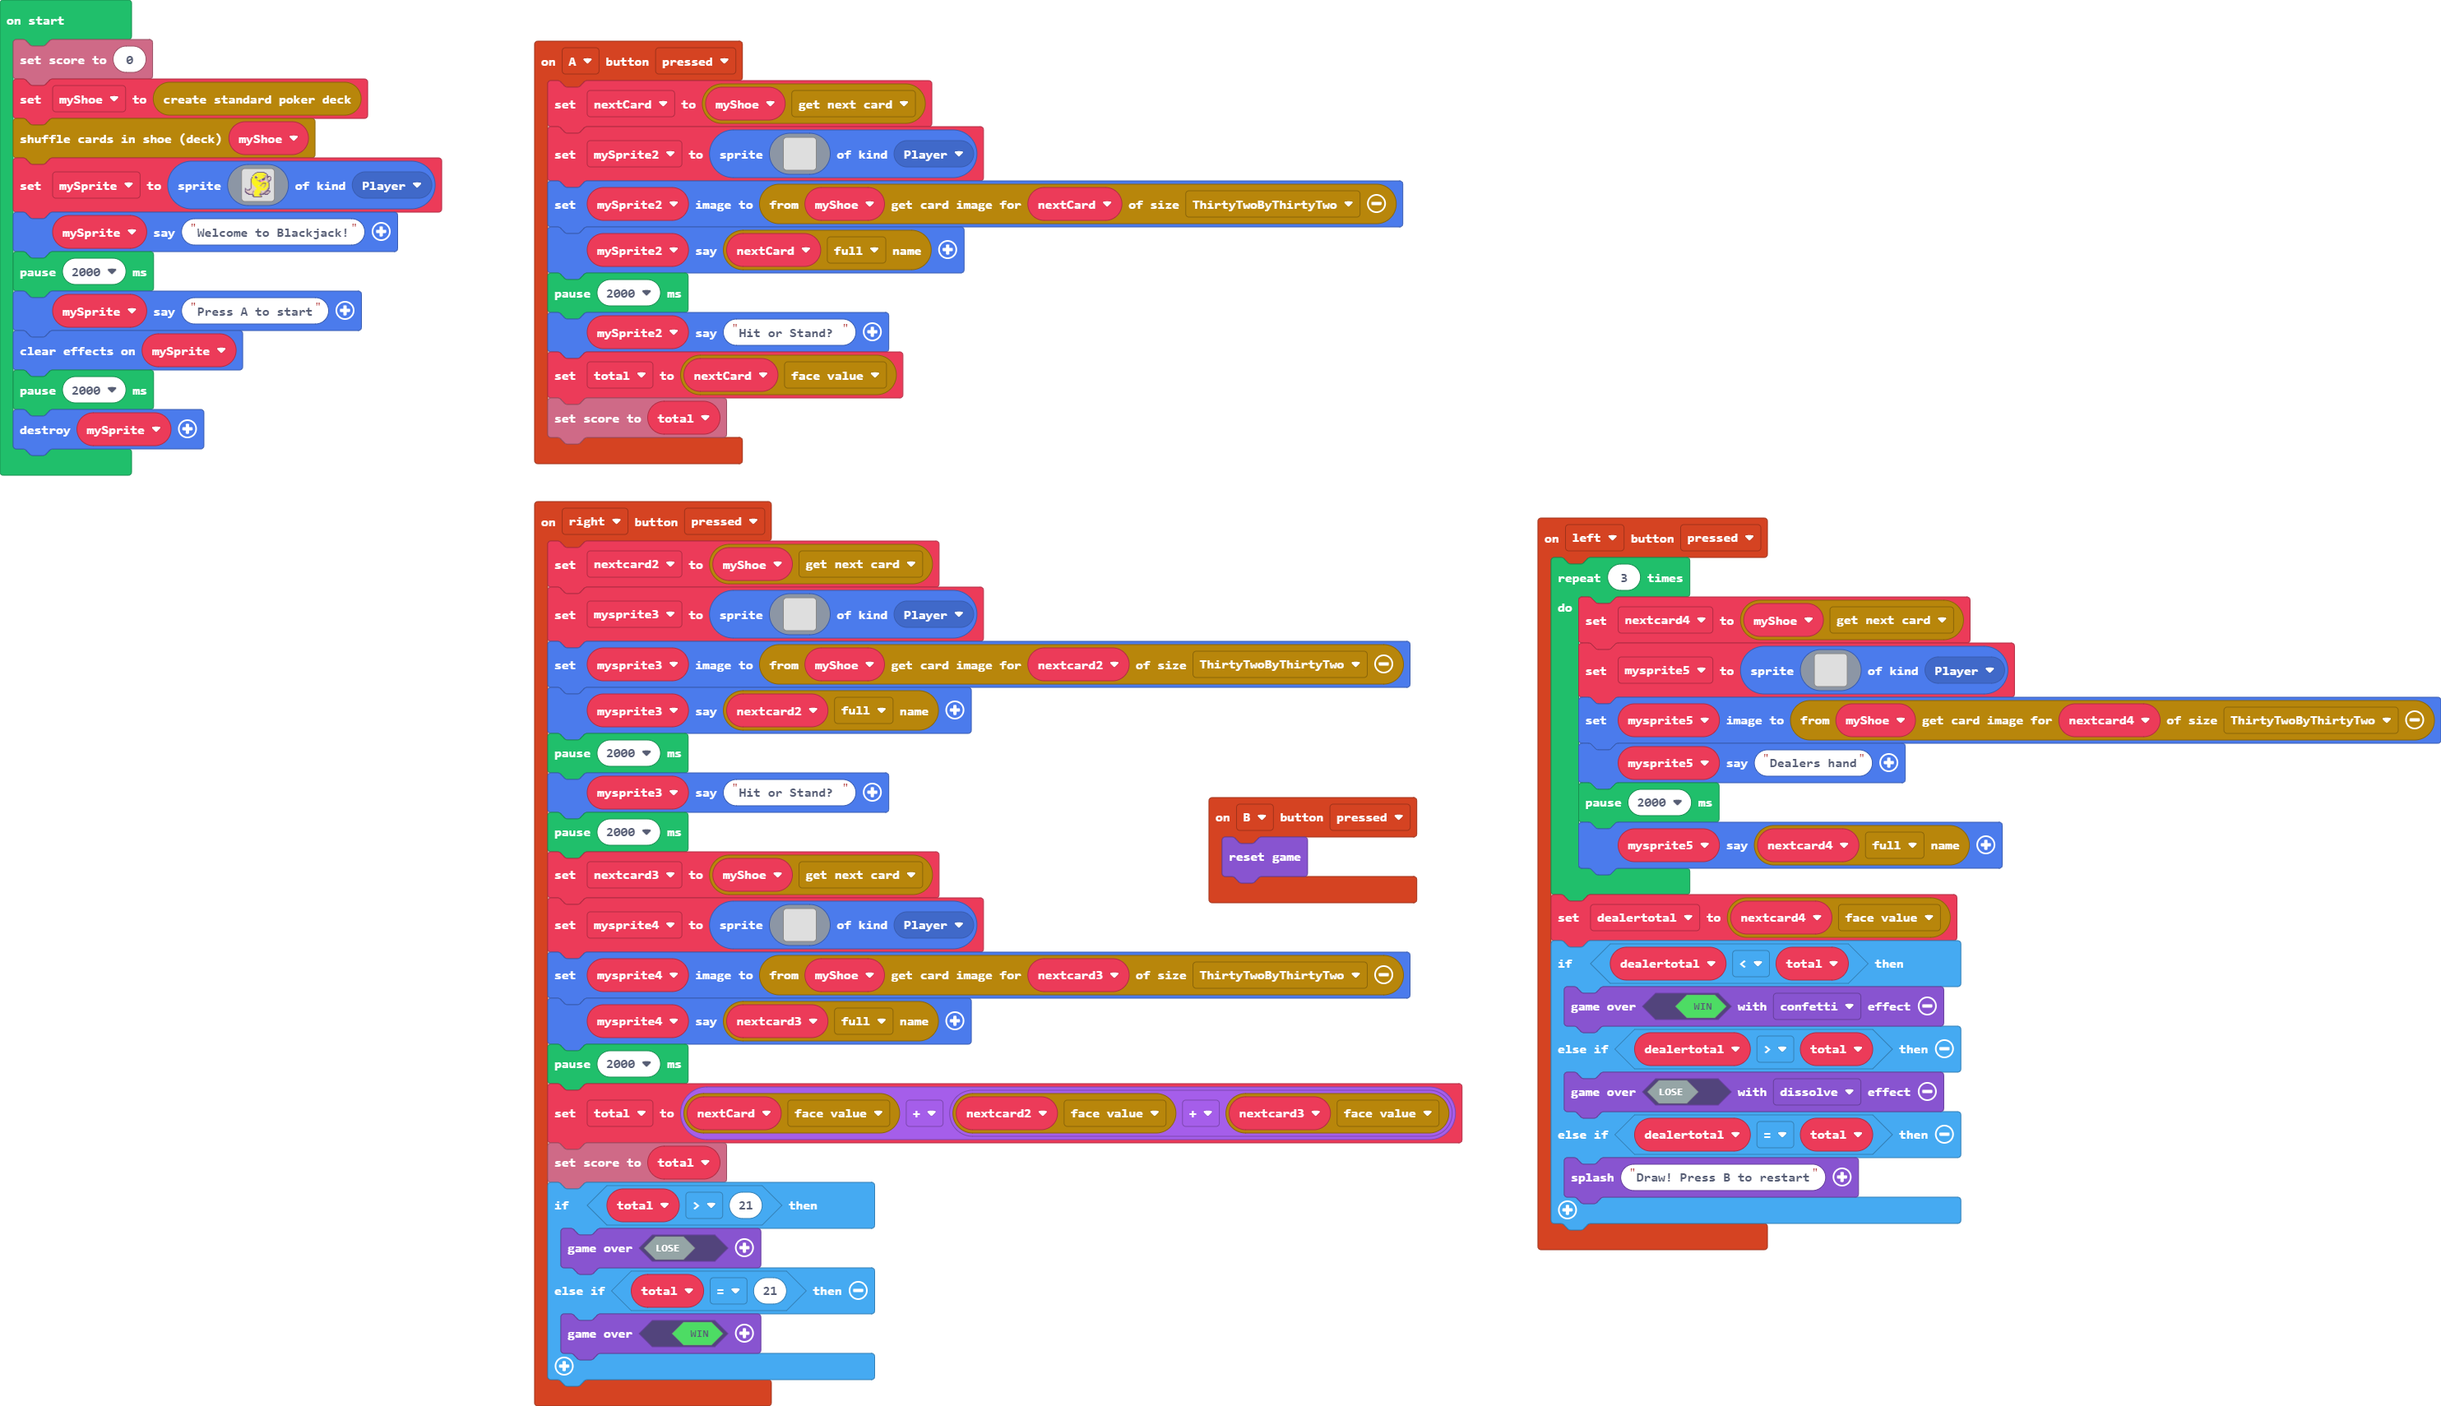
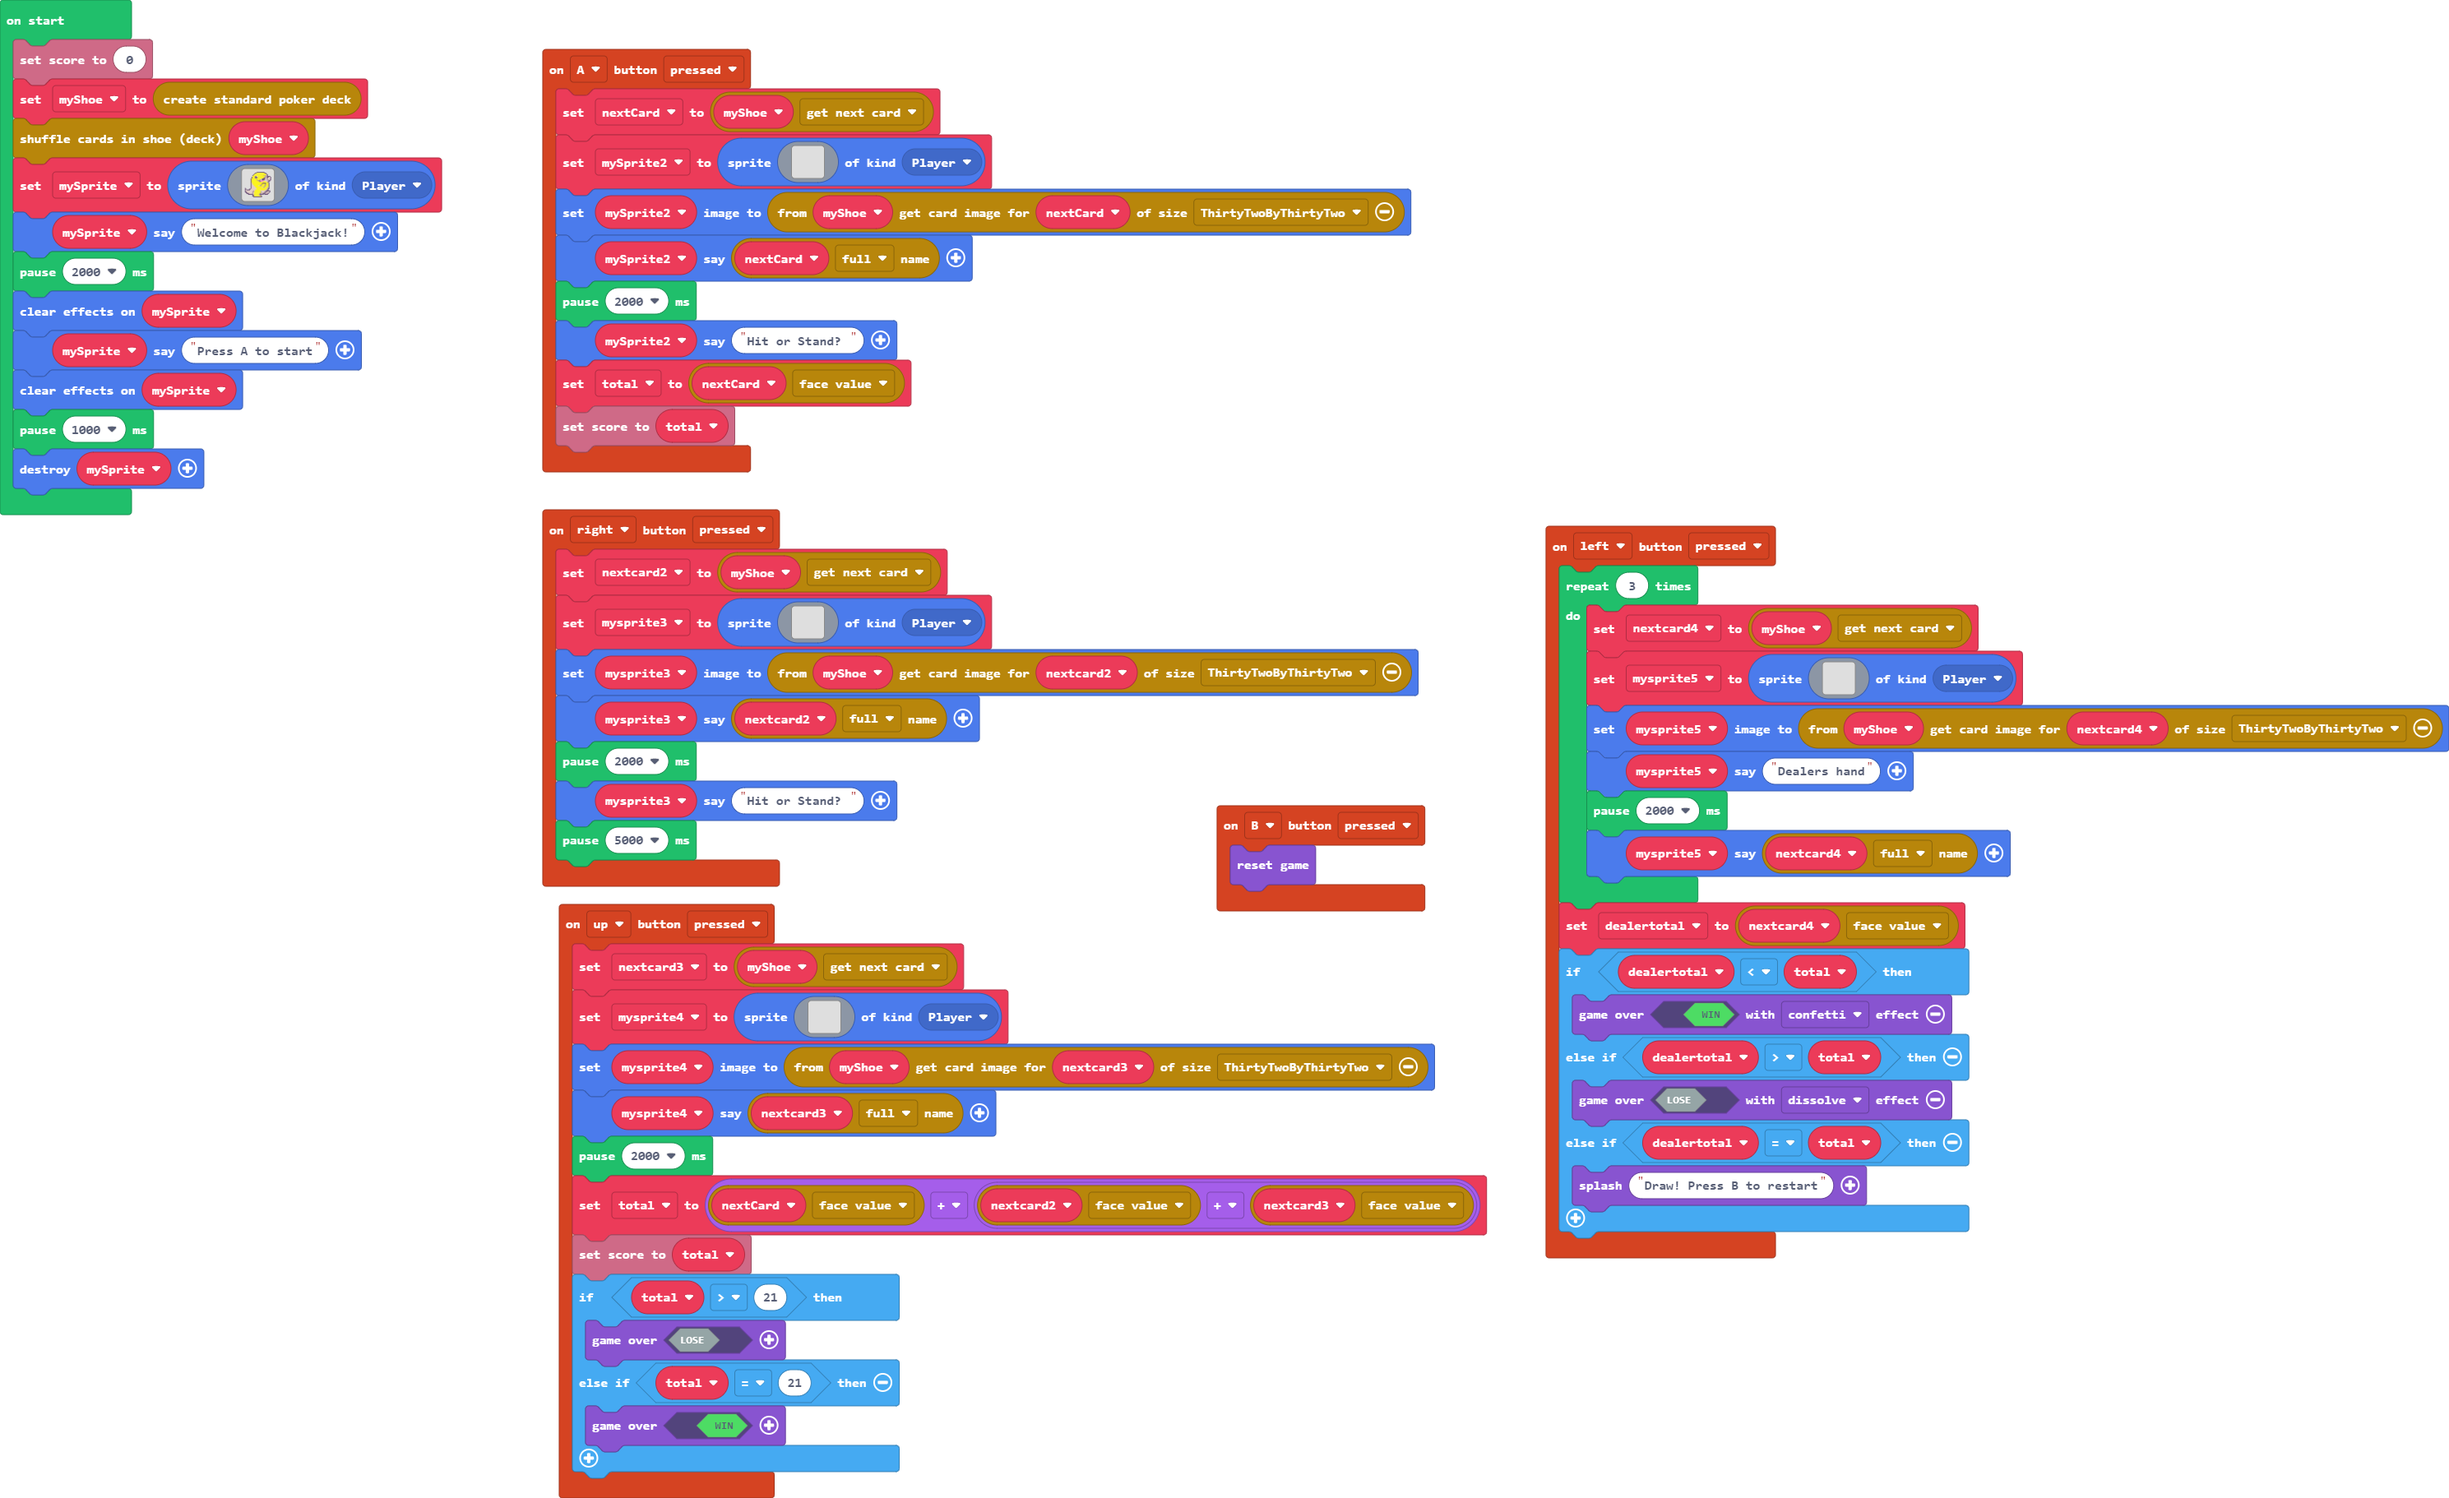
Update main.blocks, main.ts

Changed region(s): [[0.217, 0.031, 1.0, 1.0], [0.0, 0.0, 0.186, 0.3719]]

diff --git a/main.ts b/main.ts
@@ -4,6 +4,37 @@ enum SpriteKindLegacy {
     Food,
     Enemy
 }
+controller.up.onEvent(ControllerButtonEvent.Pressed, function () {
+    nextcard3 = myShoe.nextCard
+    mysprite4 = sprites.create(img`
+        . . . . . . . . . . . . . . . . 
+        . . . . . . . . . . . . . . . . 
+        . . . . . . . . . . . . . . . . 
+        . . . . . . . . . . . . . . . . 
+        . . . . . . . . . . . . . . . . 
+        . . . . . . . . . . . . . . . . 
+        . . . . . . . . . . . . . . . . 
+        . . . . . . . . . . . . . . . . 
+        . . . . . . . . . . . . . . . . 
+        . . . . . . . . . . . . . . . . 
+        . . . . . . . . . . . . . . . . 
+        . . . . . . . . . . . . . . . . 
+        . . . . . . . . . . . . . . . . 
+        . . . . . . . . . . . . . . . . 
+        . . . . . . . . . . . . . . . . 
+        . . . . . . . . . . . . . . . . 
+        `, SpriteKind.Player)
+    mysprite4.setImage(myShoe.getCardImage(nextcard3, CardSpriteSize.ThirtyTwoByThirtyTwo))
+    mysprite4.sayText(nextcard3.name)
+    pause(2000)
+    total = nextCard.faceValue + (nextcard2.faceValue + nextcard3.faceValue)
+    info.setScore(total)
+    if (total > 21) {
+        game.over(false)
+    } else if (total == 21) {
+        game.over(true)
+    }
+})
 controller.B.onEvent(ControllerButtonEvent.Pressed, function () {
     game.reset()
 })
@@ -93,47 +124,18 @@ controller.right.onEvent(ControllerButtonEvent.Pressed, function () {
     mysprite3.sayText(nextcard2.name)
     pause(2000)
     mysprite3.sayText("Hit or Stand? ")
-    pause(2000)
-    nextcard3 = myShoe.nextCard
-    mysprite4 = sprites.create(img`
-        . . . . . . . . . . . . . . . . 
-        . . . . . . . . . . . . . . . . 
-        . . . . . . . . . . . . . . . . 
-        . . . . . . . . . . . . . . . . 
-        . . . . . . . . . . . . . . . . 
-        . . . . . . . . . . . . . . . . 
-        . . . . . . . . . . . . . . . . 
-        . . . . . . . . . . . . . . . . 
-        . . . . . . . . . . . . . . . . 
-        . . . . . . . . . . . . . . . . 
-        . . . . . . . . . . . . . . . . 
-        . . . . . . . . . . . . . . . . 
-        . . . . . . . . . . . . . . . . 
-        . . . . . . . . . . . . . . . . 
-        . . . . . . . . . . . . . . . . 
-        . . . . . . . . . . . . . . . . 
-        `, SpriteKind.Player)
-    mysprite4.setImage(myShoe.getCardImage(nextcard3, CardSpriteSize.ThirtyTwoByThirtyTwo))
-    mysprite4.sayText(nextcard3.name)
-    pause(2000)
-    total = nextCard.faceValue + (nextcard2.faceValue + nextcard3.faceValue)
-    info.setScore(total)
-    if (total > 21) {
-        game.over(false)
-    } else if (total == 21) {
-        game.over(true)
-    }
+    pause(5000)
 })
-let mysprite4: Sprite = null
-let nextcard3: Card = null
 let mysprite3: Sprite = null
-let nextcard2: Card = null
 let dealertotal = 0
 let mysprite5: Sprite = null
 let nextcard4: Card = null
-let total = 0
 let mySprite2: Sprite = null
+let nextcard2: Card = null
 let nextCard: Card = null
+let total = 0
+let mysprite4: Sprite = null
+let nextcard3: Card = null
 let myShoe: Shoe = null
 info.setScore(0)
 myShoe = playingCards.createPokerDeck()
@@ -172,7 +174,8 @@ let mySprite = sprites.create(img`
     `, SpriteKindLegacy.Player)
 mySprite.say("Welcome to Blackjack!")
 pause(2000)
+effects.clearParticles(mySprite)
 mySprite.say("Press A to start")
 effects.clearParticles(mySprite)
-pause(2000)
+pause(1000)
 mySprite.destroy()
